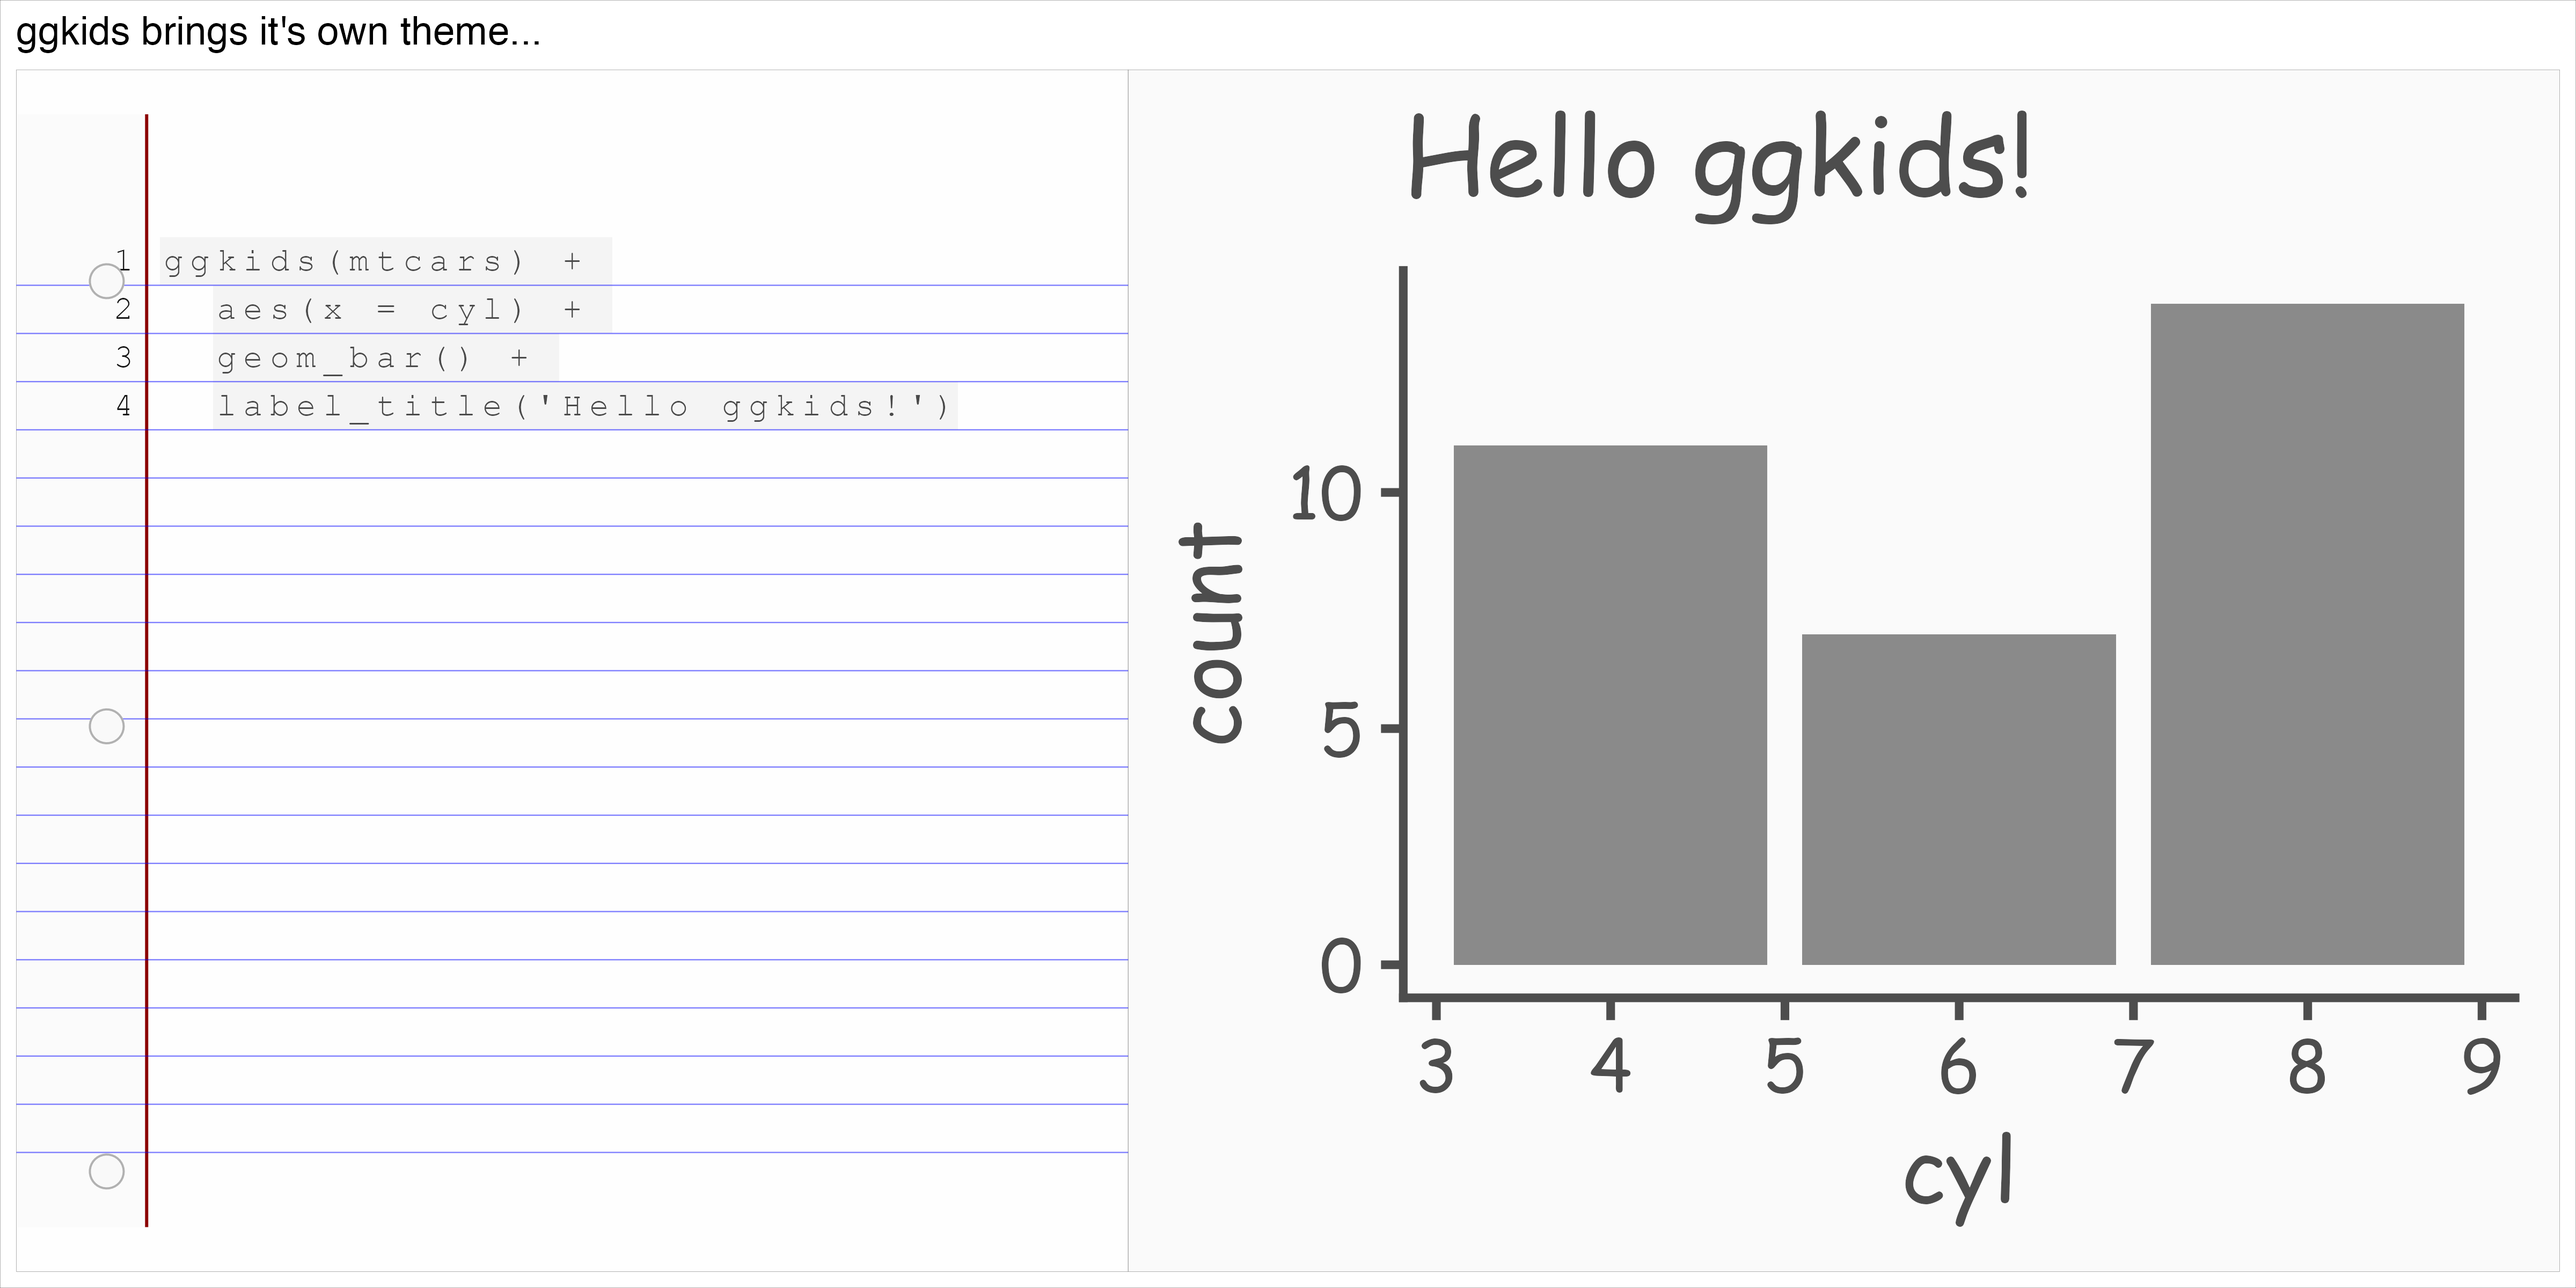
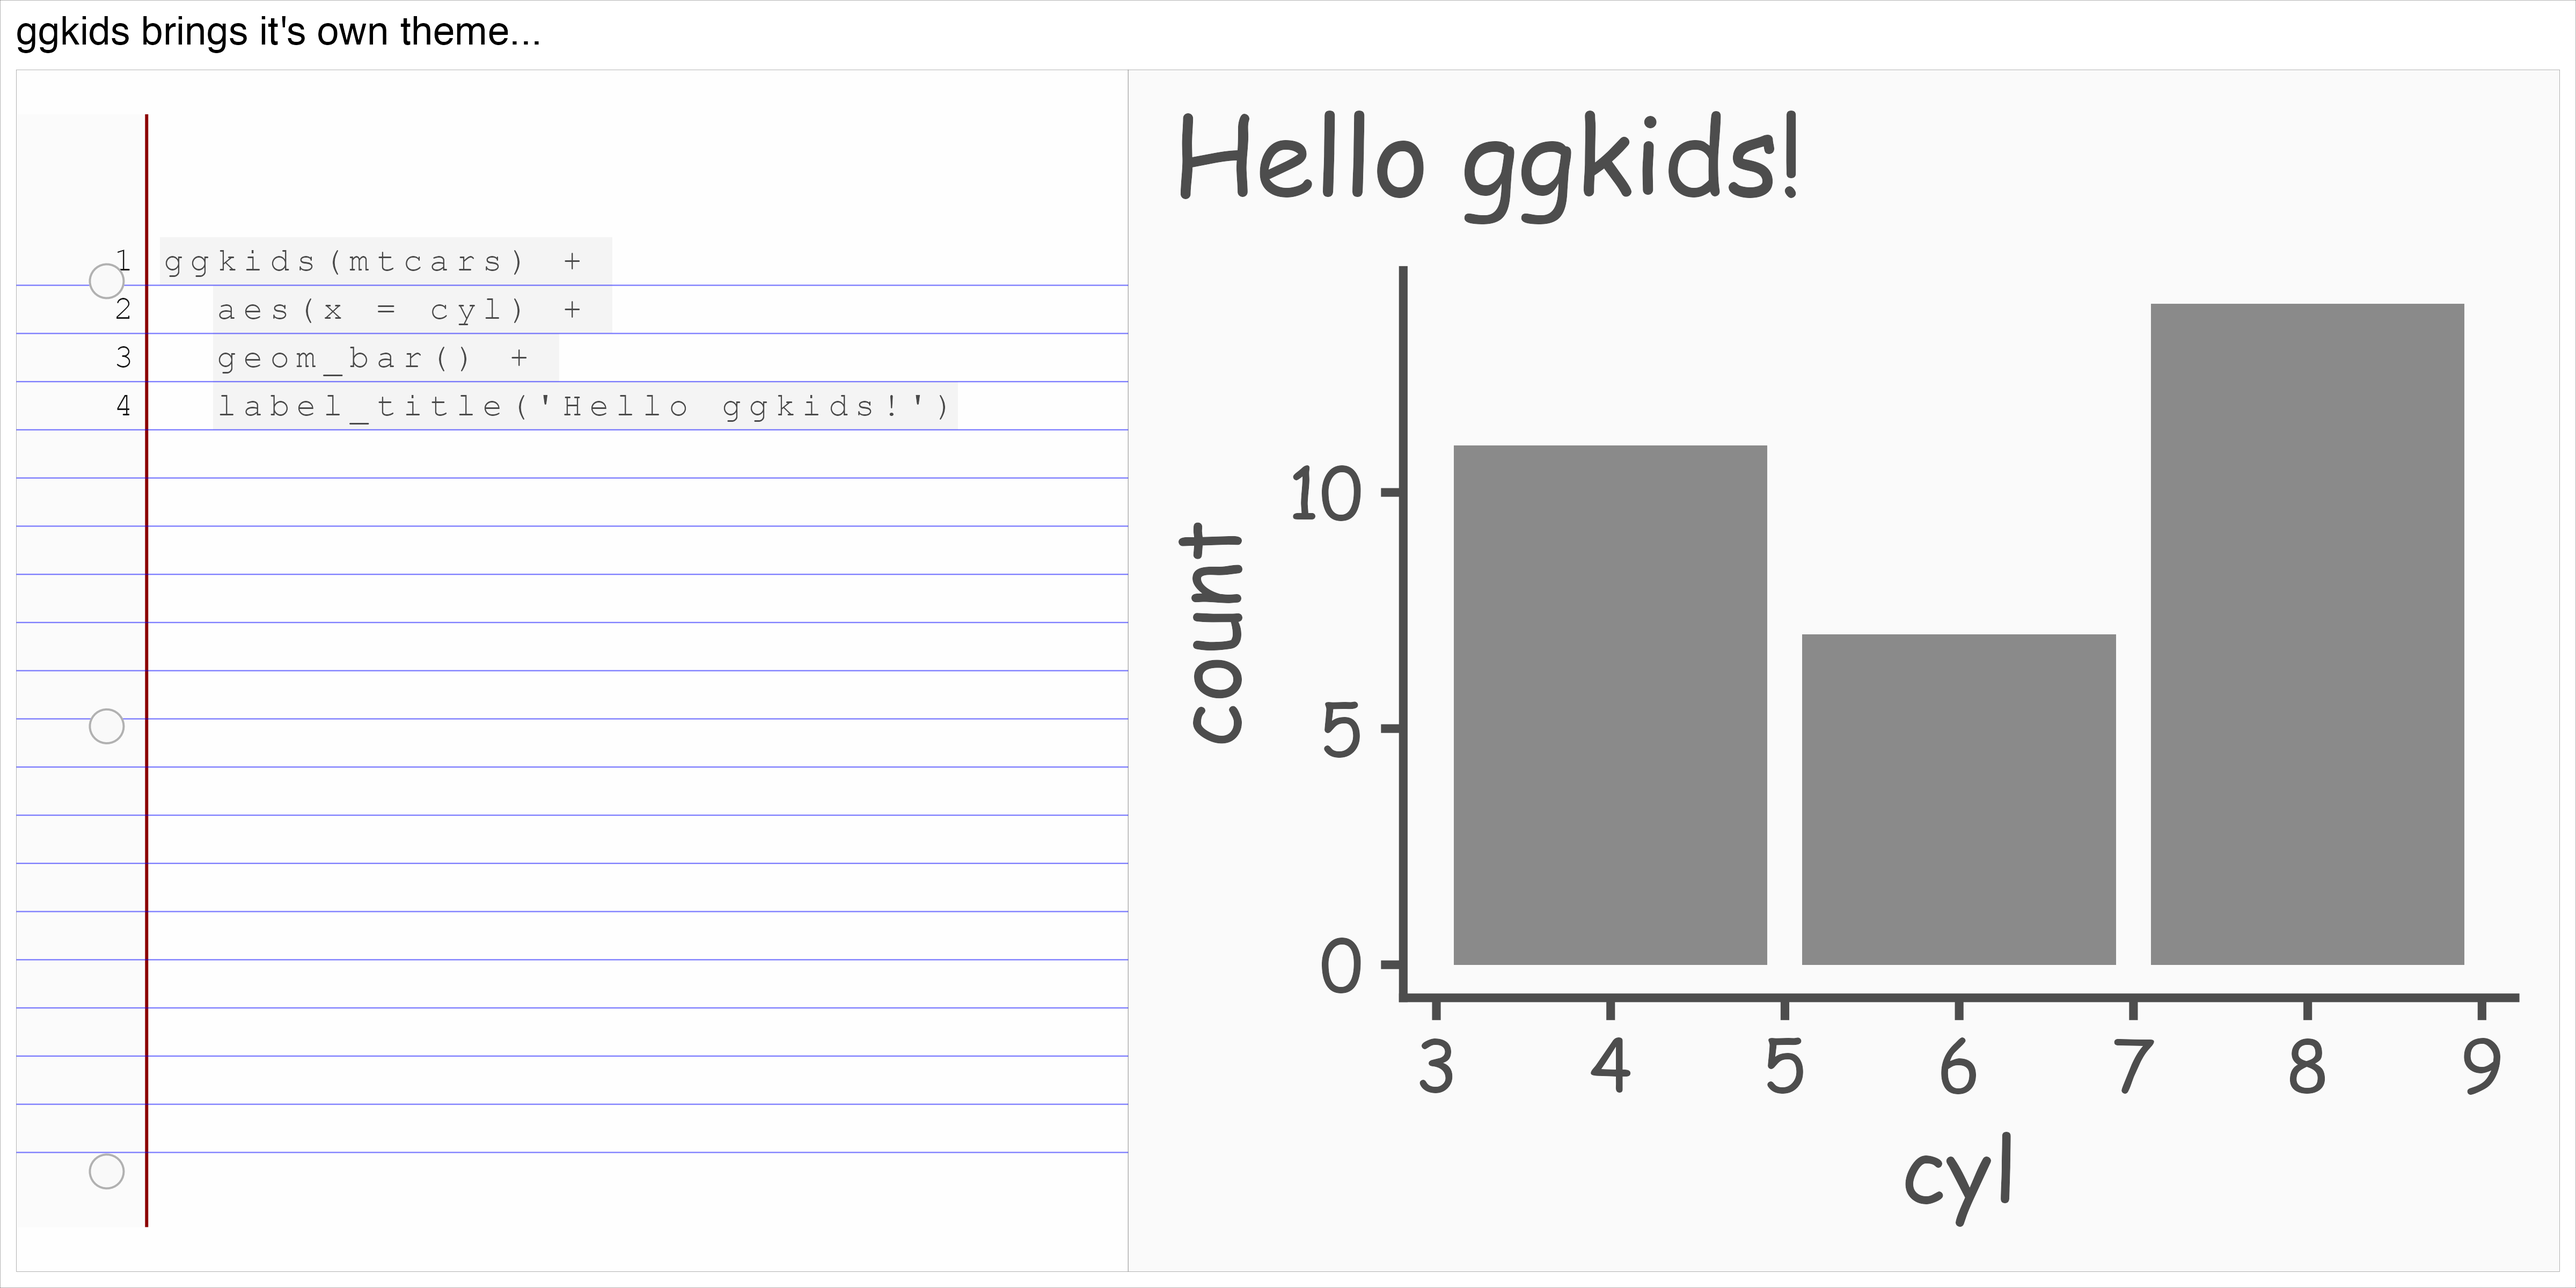
ggteens

Changed region(s): [[0.4375, 0.0938, 0.8125, 0.1875]]

diff --git a/README.md b/README.md
@@ -15,6 +15,7 @@ ggkids
 - [Mood Repair](#mood-repair)
 - [Clothing count & temp variation](#clothing-count--temp-variation)
 - [Stacking Cars …](#stacking-cars-)
+- [High school history…](#high-school-history)
 - [Minimal Packaging](#minimal-packaging)
 
 <!-- README.md is generated from README.Rmd. Please edit that file -->
@@ -90,7 +91,8 @@ theme_kids <- function(paper = "grey98",
                          ink = ink, 
                          base_size = base_size, 
                          base_family = base_family, ...
-    ) 
+    ) + 
+    theme(plot.title.position = "plot")
 }
 
 
@@ -216,7 +218,7 @@ use_size <- function(size){aes(size = {{size}})}
 use_shape <- function(shape){aes(shape = {{shape}})}
 
 #' @export
-use_color <- function(color){aes(fill = {{color}})}
+use_color <- function(color){aes(fill = {{color}}, color = {{color}})}
 
 
 #' @export
@@ -999,6 +1001,54 @@ ggkids(data = temps_data) +
 ```
 
 <img src="man/figures/README-unnamed-chunk-33-1.png" width="100%" />
+
+# High school history…
+
+``` r
+
+#install.packages("HistData")
+library(tidyverse)
+
+chart_path <- make_constructor(GeomPath, lineend = "round")
+
+use_linewidth <- function(linewidth){
+  
+  aes(linewidth = {{linewidth}}) 
+
+  }
+
+options(scipen = 10)
+
+ggteens <- ggkids
+
+
+
+
+
+march_to_moscow <- HistData::Minard.troops |> 
+  rename(longitude = long,
+         latitude = lat) |>
+  left_join(HistData::Minard.temp |> 
+  mutate(direction = "R")) |> 
+  filter(group == 1) |>
+  mutate(direction = ifelse(direction == "A", "Attack", "Retreat")) |>   
+  mutate(tenth_remain = (survivors - max(survivors)*.1) > 0,
+         tenth_gone = (survivors - max(survivors)*.9) > 0) 
+  
+usethis::use_data(march_to_moscow, overwrite = T)
+
+  
+march_to_moscow |> 
+  ggteens() + 
+  label_title("What happened on Napoleons March to Moscow?") +
+  use_x(longitude) + 
+  use_y(latitude) + 
+  chart_path() + 
+  use_linewidth(survivors) + 
+  use_color(direction)
+```
+
+<img src="man/figures/README-unnamed-chunk-34-1.png" width="100%" />
 
 # Minimal Packaging
 
